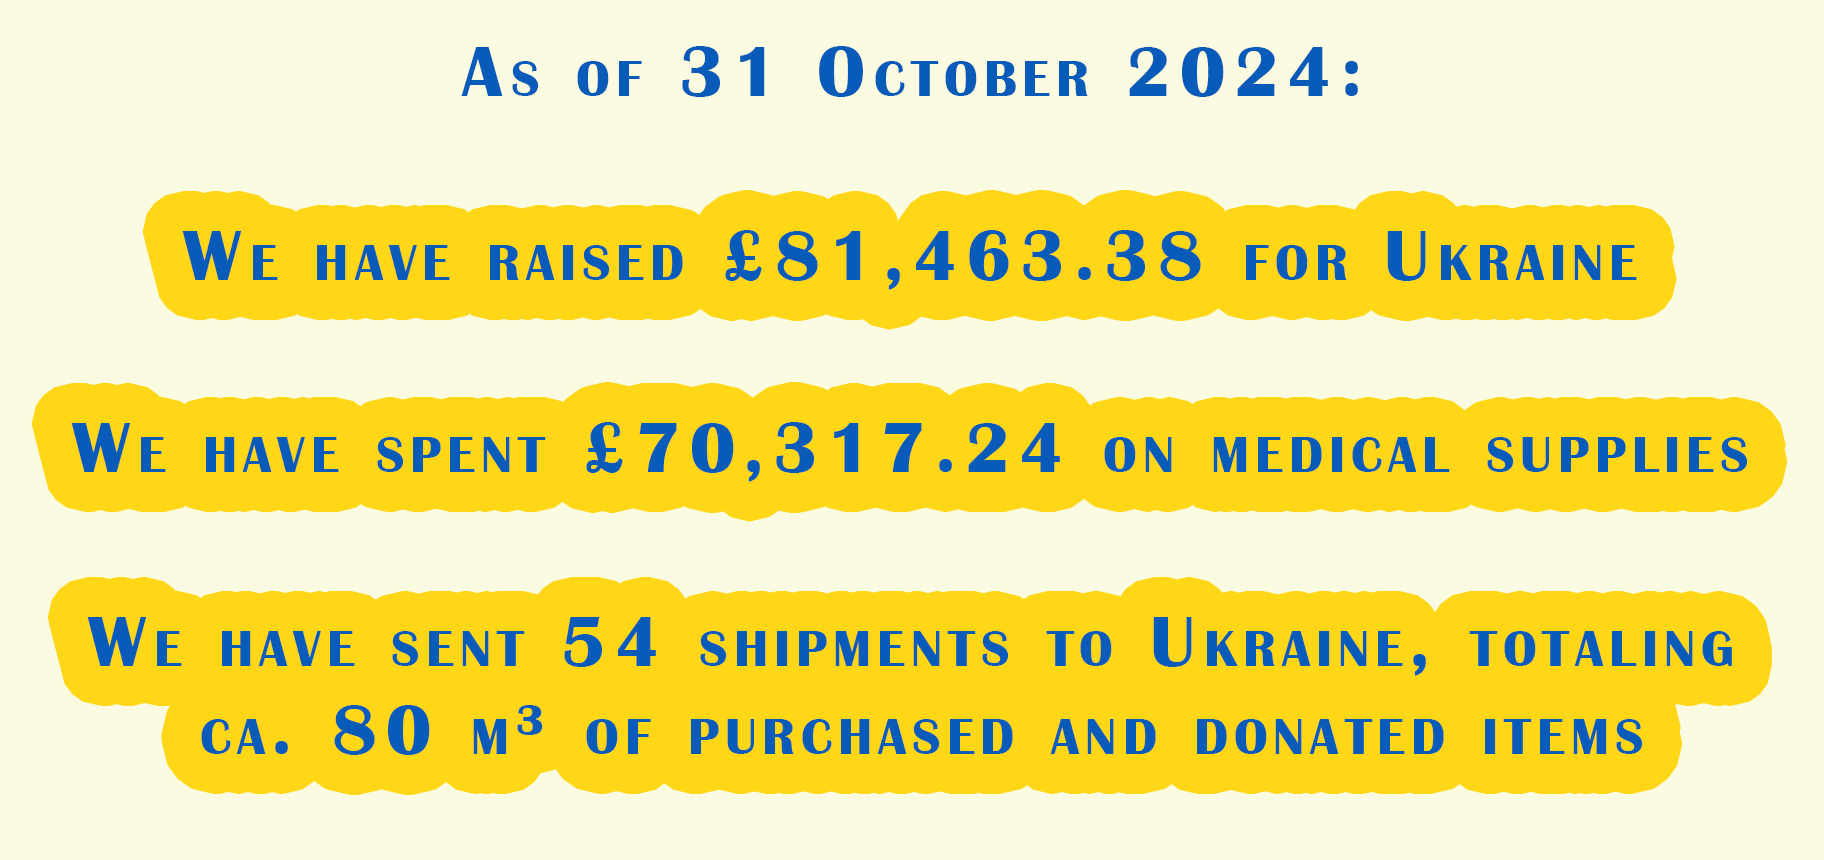
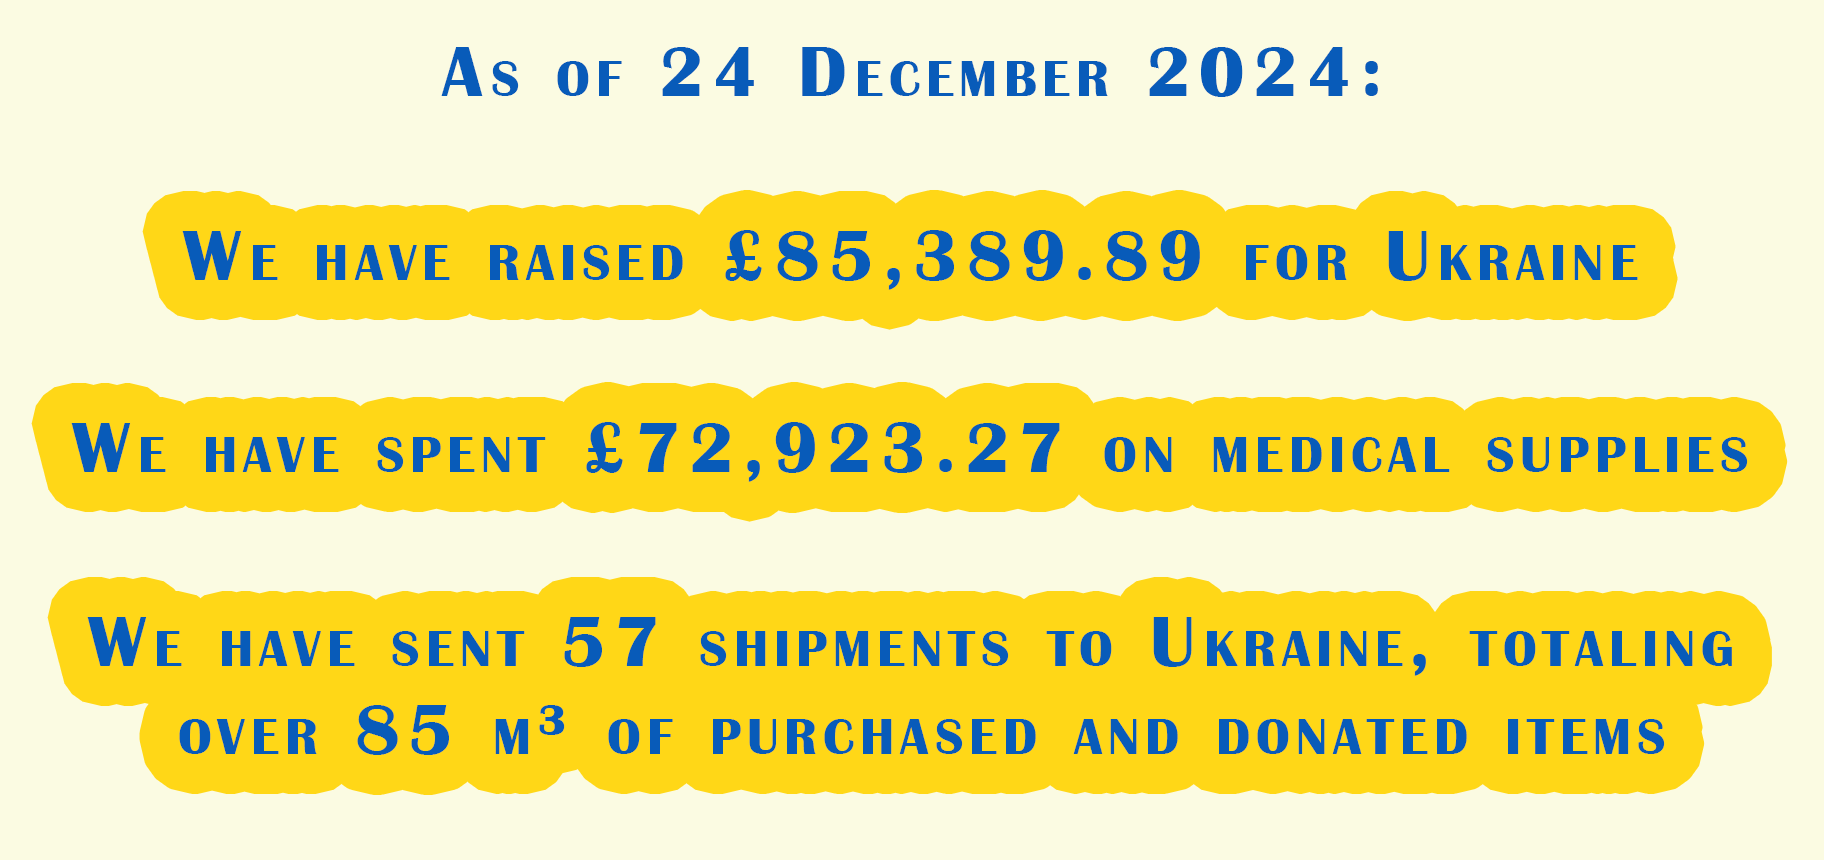
christmas

diff --git a/content/reports/reports.md b/content/reports/reports.md
@@ -19,6 +19,26 @@ design:
     color: 'var(--bg)'
 ---
 
+<h4>November – December 2024</h4>
+
+<h5>Total money income: £6,426.51</h5>
+
+* Donations to our accounts: £3,926.51 
+
+* Funding received: £2,500
+
+<h5>Total spendings: £5,621.24 </h5>
+
+* Deliveries to Ukraine: £3,641.03, namely,
+
+  + Medical supplies: £2,606.03
+
+  + Delivery costs (ca. 6 m<sup>3</sup>): £1,035.00
+
+* Funding used: £1,980.21
+
+<br/>
+
 <h4>August – October 2024</h4>
 
 <h5>Total money income: £14,787.63</h5>
